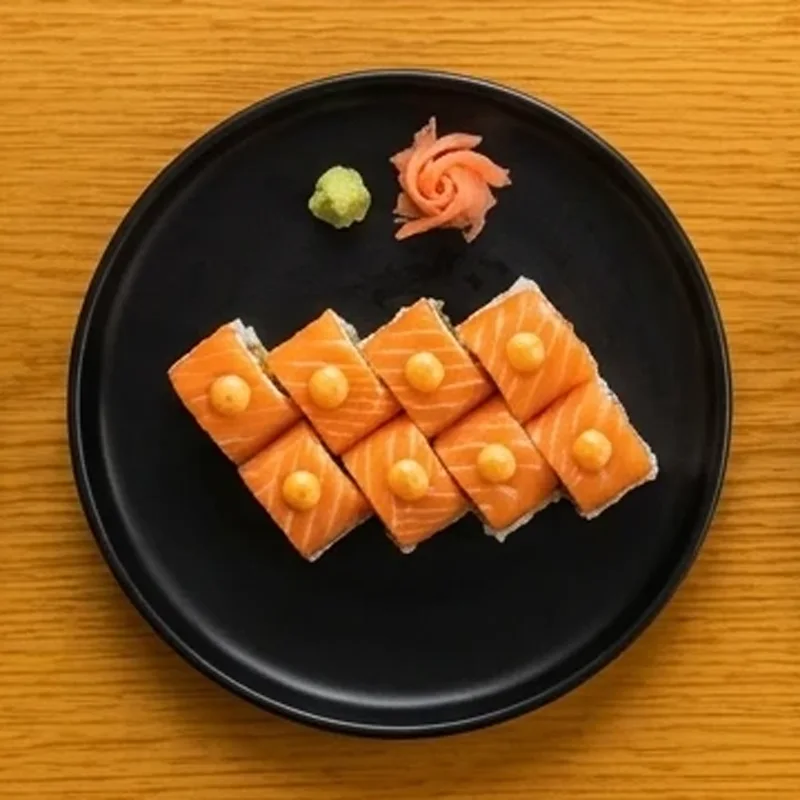
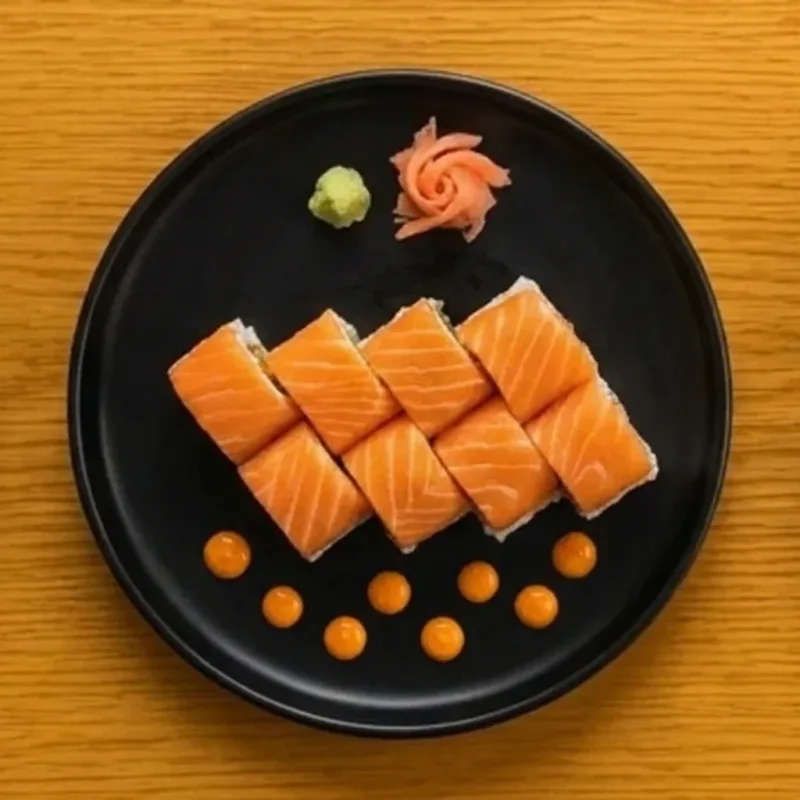
Roll 62: sauce on the plate as in the restaurant menu
Claude-Session: https://claude.ai/code/session_01FUVkhEtpQvfhdoqL6ZWBso

diff --git a/staff/index.html b/staff/index.html
@@ -280,7 +280,7 @@ const API = new URLSearchParams(location.search).get('api') || 'https://cafeupnh
 const VENUE = 'sushigo';
 const POLL_MS = 6000;
 /* dish names by menu number (filled from menu-data.js by tools/build_staff.py) */
-const IMGS = {"186": "d186.webp?v=a20aa473", "210": "d210.webp?v=a943506b", "187": "d187.webp?v=1badcb44", "52": "d52.webp?v=ac59e4e9", "53": "d53.webp?v=2c0ac19c", "54": "d54.webp?v=eab18dd9", "55": "d55.webp?v=7f5644ff", "18": "d18.webp?v=e5817ae8", "19": "d19.webp?v=9f5806cd", "20": "d20.webp?v=f94c2fe5", "21": "d21.webp?v=8108b086", "22": "d22.webp?v=3048be24", "9": "d9.webp?v=b5d30888", "10": "d10.webp?v=52efe0f9", "11": "d11.webp?v=978e4b28", "12": "d12.webp?v=e7273fc0", "13": "d13.webp?v=30b27e16", "14": "d14.webp?v=1446b738", "15": "d15.webp?v=29f66d05", "180": "d180.webp?v=0f438634", "16": "d16.webp?v=c0357a00", "17": "d17.webp?v=0f87eb02", "32": "d32.webp?v=3c840480", "33": "d33.webp?v=2506588e", "34": "d34.webp?v=9d0364af", "35": "d35.webp?v=9e72601e", "36": "d36.webp?v=89c1beae", "37": "d37.webp?v=839d1ea1", "38": "d38.webp?v=ad71e8e0", "39": "d39.webp?v=8ddd849e", "40": "d40.webp?v=5f22025c", "41": "d41.webp?v=d1d522c8", "42": "d42.webp?v=b93ca088", "202": "d202.webp?v=1ab0f3d1", "43": "d43.webp?v=91d3084c", "207": "d207.webp?v=2cb9385f", "208": "d208.webp?v=769a3015", "44": "d44.webp?v=7ca1de35", "56": "d56.webp?v=965f24e4", "57": "d57.webp?v=467516ff", "59": "d59.webp?v=8bb2137d", "58": "d58.webp?v=c860682f", "60": "d60.webp?v=a3e6f60b", "62": "d62.webp?v=d72b8b27", "61": "d61.webp?v=a87b8091", "48": "d48.webp?v=d94c4e30", "170": "d170.webp?v=f50653a2", "49": "d49.webp?v=9775f207", "50": "d50.webp?v=56887285", "51": "d51.webp?v=c34d3efe", "63": "d63.webp?v=12268ea6", "64": "d64.webp?v=aa261cac", "65": "d65.webp?v=a2fac014", "66": "d66.webp?v=3f33bfed", "174": "d174.webp?v=5b3899f9", "67": "d67.webp?v=70dea97e", "68": "d68.webp?v=8b6ca86e", "69": "d69.webp?v=83173c95", "70": "d70.webp?v=6b09ac86", "71": "d71.webp?v=16ac0aeb", "72": "d72.webp?v=34c07747", "73": "d73.webp?v=65044c85", "196": "d196.webp?v=99fe23b5", "74": "d74.webp?v=a61600a0", "75": "d75.webp?v=12643079", "76": "d76.webp?v=4976e5cc", "79": "d79.webp?v=9a27a2d0", "77": "d77.webp?v=dff36136", "78": "d78.webp?v=c57f163a", "80": "d80.webp?v=232f71fd", "191": "d191.webp?v=0678e438", "190": "d190.webp?v=fc6ac0c7", "194": "d194.webp?v=abc36968", "188": "d188.webp?v=fd8c35d5", "192": "d192.webp?v=17fcde76", "189": "d189.webp?v=ea3d5a8f", "193": "d193.webp?v=f841c437", "45": "d45.webp?v=b2ccba79", "46": "d46.webp?v=158c345a", "47": "d47.webp?v=a9963afb", "181": "d181.webp?v=94984a7e", "182": "d182.webp?v=d5208821", "183": "d183.webp?v=da481454", "185": "d185.webp?v=edba128e", "184": "d184.webp?v=3b01019c", "173": "d173.webp?v=121a45dd", "172": "d172.webp?v=e478487e", "167": "d167.webp?v=8e9612a9", "168": "d168.webp?v=be1e3f36", "169": "d169.webp?v=e6f92468", "171": "d171.webp?v=f92e85ce", "23": "d23.webp?v=242646c3", "24": "d24.webp?v=4c65c96f", "25": "d25.webp?v=3a1e9214", "26": "d26.webp?v=6cf13510", "203": "d203.webp?v=e57f266b", "28": "d28.webp?v=9c568e26", "29": "d29.webp?v=6f9289e9", "30": "d30.webp?v=94dbc95f", "31": "d31.webp?v=0d7a5f7f", "27": "d27.webp?v=f4fa92cd", "117": "d117.webp?v=dcd33753", "118": "d117.webp?v=dcd33753", "119": "d119.webp?v=69bb7d19", "120": "d119.webp?v=69bb7d19", "121": "d121.webp?v=3c6e1bff", "122": "d121.webp?v=3c6e1bff", "123": "d123.webp?v=3e8b89d3", "124": "d123.webp?v=3e8b89d3", "125": "d125.webp?v=134c7d32", "126": "d125.webp?v=134c7d32", "127": "d127.webp?v=f97703c6", "128": "d127.webp?v=f97703c6", "144": "d144.webp?v=a8fc5c34", "145": "d144.webp?v=a8fc5c34", "146": "d146.webp?v=9b321d77", "147": "d146.webp?v=9b321d77", "129": "d129.webp?v=d52e67df", "130": "d129.webp?v=d52e67df", "131": "d131.webp?v=05be9678", "132": "d131.webp?v=05be9678", "133": "d133.webp?v=270ba4c3", "134": "d133.webp?v=270ba4c3", "135": "d135.webp?v=ca5d2629", "136": "d135.webp?v=ca5d2629", "137": "d137.webp?v=43b73a38", "138": "d137.webp?v=43b73a38", "139": "d139.webp?v=299aee6e", "140": "d139.webp?v=299aee6e", "142": "d142.webp?v=ad24084b", "143": "d142.webp?v=ad24084b", "101": "d101.webp?v=836909ee", "205": "d205.webp?v=cbcec42a", "102": "d102.webp?v=7914424e", "103": "d103.webp?v=906998a9", "104": "d104.webp?v=5844b821", "100": "d100.webp?v=6a03852b", "97": "d97.webp?v=097eca62", "206": "d206.webp?v=73209d63", "209": "d209.webp?v=dd7fb685", "151": "d151.webp?v=c2121458", "148": "d148.webp?v=beeb568a", "149": "d149.webp?v=86442304", "150": "d150.webp?v=f5c5fc25", "98": "d98.webp?v=b272fef6", "99": "d99.webp?v=17877127", "141": "d141.webp?v=297be1d9", "96": "d96.webp?v=6c689f75", "199": "d199.webp?v=49ff3e63", "90": "d90.webp?v=af9bbac3", "88": "d88.webp?v=5a4ddb90", "204": "d204.webp?v=c819f21b", "91": "d91.webp?v=03a50746", "92": "d92.webp?v=03a50746", "201": "d201.webp?v=4b2e1fd9", "89": "d89.webp?v=67728fc1", "93": "d93.webp?v=7d43b3d8", "94": "d94.webp?v=11c7b441", "95": "d95.webp?v=09a4f4b4", "195": "d195.webp?v=dd230707", "81": "d81.webp?v=6cc40a24", "82": "d82.webp?v=ed0c97b3", "83": "d83.webp?v=598272e2", "84": "d84.webp?v=908daff8", "200": "d200.webp?v=0f75c608", "85": "d85.webp?v=315ca908", "86": "d86.webp?v=65f37c75", "87": "d87.webp?v=5f1e8d5c", "109": "dr_beer.webp?v=110c074f", "110": "dr_beer.webp?v=110c074f", "111": "dr_heineken.webp?v=cf836dae", "112": "dr_soft.webp?v=ed093acc", "113": "dr_soft.webp?v=ed093acc", "176": "dr_soft.webp?v=ed093acc", "177": "dr_soft.webp?v=ed093acc", "115": "dr_soft.webp?v=ed093acc", "116": "dr_soft.webp?v=ed093acc", "178": "dr_water.webp?v=e8fe1b27", "114": "dr_water.webp?v=e8fe1b27", "179": "dr_coco.webp?v=97f03e8b"};   /* original photo of each dish: ../img/<name>.webp */
+const IMGS = {"186": "d186.webp?v=a20aa473", "210": "d210.webp?v=a943506b", "187": "d187.webp?v=1badcb44", "52": "d52.webp?v=ac59e4e9", "53": "d53.webp?v=2c0ac19c", "54": "d54.webp?v=eab18dd9", "55": "d55.webp?v=7f5644ff", "18": "d18.webp?v=e5817ae8", "19": "d19.webp?v=9f5806cd", "20": "d20.webp?v=f94c2fe5", "21": "d21.webp?v=8108b086", "22": "d22.webp?v=3048be24", "9": "d9.webp?v=b5d30888", "10": "d10.webp?v=52efe0f9", "11": "d11.webp?v=978e4b28", "12": "d12.webp?v=e7273fc0", "13": "d13.webp?v=30b27e16", "14": "d14.webp?v=1446b738", "15": "d15.webp?v=29f66d05", "180": "d180.webp?v=0f438634", "16": "d16.webp?v=c0357a00", "17": "d17.webp?v=0f87eb02", "32": "d32.webp?v=3c840480", "33": "d33.webp?v=2506588e", "34": "d34.webp?v=9d0364af", "35": "d35.webp?v=9e72601e", "36": "d36.webp?v=89c1beae", "37": "d37.webp?v=839d1ea1", "38": "d38.webp?v=ad71e8e0", "39": "d39.webp?v=8ddd849e", "40": "d40.webp?v=5f22025c", "41": "d41.webp?v=d1d522c8", "42": "d42.webp?v=b93ca088", "202": "d202.webp?v=1ab0f3d1", "43": "d43.webp?v=91d3084c", "207": "d207.webp?v=2cb9385f", "208": "d208.webp?v=769a3015", "44": "d44.webp?v=7ca1de35", "56": "d56.webp?v=965f24e4", "57": "d57.webp?v=467516ff", "59": "d59.webp?v=8bb2137d", "58": "d58.webp?v=c860682f", "60": "d60.webp?v=a3e6f60b", "62": "d62.webp?v=54b6e7c2", "61": "d61.webp?v=a87b8091", "48": "d48.webp?v=d94c4e30", "170": "d170.webp?v=f50653a2", "49": "d49.webp?v=9775f207", "50": "d50.webp?v=56887285", "51": "d51.webp?v=c34d3efe", "63": "d63.webp?v=12268ea6", "64": "d64.webp?v=aa261cac", "65": "d65.webp?v=a2fac014", "66": "d66.webp?v=3f33bfed", "174": "d174.webp?v=5b3899f9", "67": "d67.webp?v=70dea97e", "68": "d68.webp?v=8b6ca86e", "69": "d69.webp?v=83173c95", "70": "d70.webp?v=6b09ac86", "71": "d71.webp?v=16ac0aeb", "72": "d72.webp?v=34c07747", "73": "d73.webp?v=65044c85", "196": "d196.webp?v=99fe23b5", "74": "d74.webp?v=a61600a0", "75": "d75.webp?v=12643079", "76": "d76.webp?v=4976e5cc", "79": "d79.webp?v=9a27a2d0", "77": "d77.webp?v=dff36136", "78": "d78.webp?v=c57f163a", "80": "d80.webp?v=232f71fd", "191": "d191.webp?v=0678e438", "190": "d190.webp?v=fc6ac0c7", "194": "d194.webp?v=abc36968", "188": "d188.webp?v=fd8c35d5", "192": "d192.webp?v=17fcde76", "189": "d189.webp?v=ea3d5a8f", "193": "d193.webp?v=f841c437", "45": "d45.webp?v=b2ccba79", "46": "d46.webp?v=158c345a", "47": "d47.webp?v=a9963afb", "181": "d181.webp?v=94984a7e", "182": "d182.webp?v=d5208821", "183": "d183.webp?v=da481454", "185": "d185.webp?v=edba128e", "184": "d184.webp?v=3b01019c", "173": "d173.webp?v=121a45dd", "172": "d172.webp?v=e478487e", "167": "d167.webp?v=8e9612a9", "168": "d168.webp?v=be1e3f36", "169": "d169.webp?v=e6f92468", "171": "d171.webp?v=f92e85ce", "23": "d23.webp?v=242646c3", "24": "d24.webp?v=4c65c96f", "25": "d25.webp?v=3a1e9214", "26": "d26.webp?v=6cf13510", "203": "d203.webp?v=e57f266b", "28": "d28.webp?v=9c568e26", "29": "d29.webp?v=6f9289e9", "30": "d30.webp?v=94dbc95f", "31": "d31.webp?v=0d7a5f7f", "27": "d27.webp?v=f4fa92cd", "117": "d117.webp?v=dcd33753", "118": "d117.webp?v=dcd33753", "119": "d119.webp?v=69bb7d19", "120": "d119.webp?v=69bb7d19", "121": "d121.webp?v=3c6e1bff", "122": "d121.webp?v=3c6e1bff", "123": "d123.webp?v=3e8b89d3", "124": "d123.webp?v=3e8b89d3", "125": "d125.webp?v=134c7d32", "126": "d125.webp?v=134c7d32", "127": "d127.webp?v=f97703c6", "128": "d127.webp?v=f97703c6", "144": "d144.webp?v=a8fc5c34", "145": "d144.webp?v=a8fc5c34", "146": "d146.webp?v=9b321d77", "147": "d146.webp?v=9b321d77", "129": "d129.webp?v=d52e67df", "130": "d129.webp?v=d52e67df", "131": "d131.webp?v=05be9678", "132": "d131.webp?v=05be9678", "133": "d133.webp?v=270ba4c3", "134": "d133.webp?v=270ba4c3", "135": "d135.webp?v=ca5d2629", "136": "d135.webp?v=ca5d2629", "137": "d137.webp?v=43b73a38", "138": "d137.webp?v=43b73a38", "139": "d139.webp?v=299aee6e", "140": "d139.webp?v=299aee6e", "142": "d142.webp?v=ad24084b", "143": "d142.webp?v=ad24084b", "101": "d101.webp?v=836909ee", "205": "d205.webp?v=cbcec42a", "102": "d102.webp?v=7914424e", "103": "d103.webp?v=906998a9", "104": "d104.webp?v=5844b821", "100": "d100.webp?v=6a03852b", "97": "d97.webp?v=097eca62", "206": "d206.webp?v=73209d63", "209": "d209.webp?v=dd7fb685", "151": "d151.webp?v=c2121458", "148": "d148.webp?v=beeb568a", "149": "d149.webp?v=86442304", "150": "d150.webp?v=f5c5fc25", "98": "d98.webp?v=b272fef6", "99": "d99.webp?v=17877127", "141": "d141.webp?v=297be1d9", "96": "d96.webp?v=6c689f75", "199": "d199.webp?v=49ff3e63", "90": "d90.webp?v=af9bbac3", "88": "d88.webp?v=5a4ddb90", "204": "d204.webp?v=c819f21b", "91": "d91.webp?v=03a50746", "92": "d92.webp?v=03a50746", "201": "d201.webp?v=4b2e1fd9", "89": "d89.webp?v=67728fc1", "93": "d93.webp?v=7d43b3d8", "94": "d94.webp?v=11c7b441", "95": "d95.webp?v=09a4f4b4", "195": "d195.webp?v=dd230707", "81": "d81.webp?v=6cc40a24", "82": "d82.webp?v=ed0c97b3", "83": "d83.webp?v=598272e2", "84": "d84.webp?v=908daff8", "200": "d200.webp?v=0f75c608", "85": "d85.webp?v=315ca908", "86": "d86.webp?v=65f37c75", "87": "d87.webp?v=5f1e8d5c", "109": "dr_beer.webp?v=110c074f", "110": "dr_beer.webp?v=110c074f", "111": "dr_heineken.webp?v=cf836dae", "112": "dr_soft.webp?v=ed093acc", "113": "dr_soft.webp?v=ed093acc", "176": "dr_soft.webp?v=ed093acc", "177": "dr_soft.webp?v=ed093acc", "115": "dr_soft.webp?v=ed093acc", "116": "dr_soft.webp?v=ed093acc", "178": "dr_water.webp?v=e8fe1b27", "114": "dr_water.webp?v=e8fe1b27", "179": "dr_coco.webp?v=97f03e8b"};   /* original photo of each dish: ../img/<name>.webp */
 const NAMES = {"9":["Tobiko, flying fish roe","Тобико, икра летучей рыбы","Trứng cá chuồn (Tobiko)",95000],"10":["Salmon “udon” sashimi","Сашими «удон» из лосося","Sashimi sake udon (cá hồi sợi)",199000],"11":["Tuna sashimi (maguro)","Сашими из тунца (магуро)","Sashimi cá ngừ",109000],"12":["Herring with roe sashimi (komochi nishin)","Сашими из сельди с икрой (комочи нишин)","Sashimi cá trích ép trứng",99000],"13":["Octopus sashimi (tako)","Сашими из осьминога (тако)","Sashimi bạch tuộc",95000],"14":["Salmon sashimi (sake)","Сашими из лосося (сакэ)","Sashimi cá hồi",119000],"15":["Salmon belly sashimi (sake hara)","Сашими из брюшка лосося (сакэ хара)","Sashimi bụng cá hồi",129000],"16":["Salmon carpaccio","Карпаччо из лосося","Cá hồi Carpaccio",119000],"17":["Tuna carpaccio","Карпаччо из тунца","Cá ngừ Carpaccio",99000],"18":["Sashimi set, 3 kinds","Сашими-сет, 3 вида","Set 3 loại Sashimi",165000],"19":["Salmon sashimi set","Сашими-сет из лосося","Set cá hồi Sashimi",449000],"20":["Sashimi set, 5 kinds, small (15 pcs)","Сашими-сет, 5 видов, малый (15 шт.)","Set 5 loại Sashimi nhỏ (15 miếng)",269000],"21":["Sashimi set, 6 kinds","Сашими-сет, 6 видов","Set Sashimi 6 loại",299000],"22":["Chef’s special sashimi set (30 pcs)","Сашими-сет от шефа (30 шт.)","Set Sashimi đặc biệt (30 miếng)",449000],"23":["Four seasons seafood salad","Салат «Четыре сезона» с морепродуктами","Salad hải sản bốn mùa",129000],"24":["Mixed seaweed salad","Салат из водорослей ассорти","Salad rong biển trộn",79000],"25":["Crab stick salad (kani)","Салат с крабовыми палочками (кани)","Salad thanh cua",68000],"26":["Tuna mayo salad","Салат с тунцом и майонезом","Salad cá ngừ mayo",75000],"27":["Tuna tataki salad","Салат с татаки из тунца","Salad cá ngừ khò tái",109000],"28":["Crispy soft-shell crab salad","Салат с хрустящим крабом в мягком панцире","Salad cua lột chiên giòn",139000],"29":["Salmon skin salad","Салат с хрустящей кожей лосося","Salad da cá hồi",79000],"30":["Salmon & avocado salad","Салат с лососем и авокадо","Salad cá hồi bơ",129000],"31":["Salmon tataki salad","Салат с татаки из лосося","Salad cá hồi khò tái",128000],"32":["Crab stick nigiri (kani)","Нигири с крабовой палочкой (кани)","Nigiri thanh cua",20000],"33":["Salmon nigiri (sake)","Нигири с лососем (сакэ)","Nigiri cá hồi",49000],"34":["Tuna nigiri (maguro)","Нигири с тунцом (магуро)","Nigiri cá ngừ",45000],"35":["Torched salmon nigiri with teriyaki (sake aburi)","Нигири с обожжённым лососем и терияки (сакэ абури)","Nigiri cá hồi khò teri",49000],"36":["Octopus nigiri (tako)","Нигири с осьминогом (тако)","Nigiri bạch tuộc",45000],"37":["Herring with roe nigiri (nishin)","Нигири с сельдью и икрой (нишин)","Nigiri cá trích ép trứng",45000],"38":["Salmon belly nigiri (sake hara)","Нигири с брюшком лосося (сакэ хара)","Nigiri bụng cá hồi",55000],"39":["Torched tuna nigiri with teriyaki (maguro aburi)","Нигири с обожжённым тунцом и терияки (магуро абури)","Nigiri cá ngừ khò teri",45000],"40":["Tuna nigiri with cheese","Нигири с тунцом и сыром","Nigiri cá ngừ phô mai",49000],"41":["Salmon nigiri with cheese","Нигири с лососем и сыром","Nigiri cá hồi phô mai",55000],"42":["Grilled eel nigiri (unagi)","Нигири с жареным угрём (унаги)","Nigiri lươn nướng",55000],"43":["Gunkan with flying fish roe (tobiko)","Гункан с икрой летучей рыбы (тобико)","Gunkan trứng cá chuồn",45000],"44":["Salmon gunkan with tobiko","Гункан из лосося с тобико","Gunkan cá hồi trứng cá chuồn",65000],"45":["Salmon tempura roll (hosomaki)","Тонкий ролл с лососем в темпуре","Cuộn cá hồi chiên tempura",65000],"46":["Seafood tempura roll","Ролл с морепродуктами в темпуре","Cuộn hải sản chiên tempura",75000],"47":["Spicy seafood tempura roll","Острый ролл с морепродуктами в темпуре","Cuộn hải sản cay chiên tempura",75000],"48":["Avocado hosomaki","Хосомаки с авокадо","Hosomaki bơ",30000],"49":["Salmon hosomaki (sake maki)","Хосомаки с лососем (сакэ маки)","Hosomaki cá hồi sống",55000],"50":["Tuna hosomaki (tekka maki)","Хосомаки с тунцом (тэкка маки)","Hosomaki cá ngừ sống",50000],"51":["Crab stick hosomaki (kani maki)","Хосомаки с крабовой палочкой (кани маки)","Hosomaki thanh cua",30000],"52":["Sushi & sashimi set A","Сет суши и сашими A","Set Sushi & Sashimi A",195000],"53":["Sushi & sashimi set B","Сет суши и сашими B","Set Sushi & Sashimi B",249000],"54":["Sushi set Matsu (16 pcs)","Суши-сет «Мацу» (16 шт.)","Set sushi nhỏ (16 miếng)",195000],"55":["Sushi set Take (20 pcs)","Суши-сет «Такэ» (20 шт.)","Set sushi lớn (20 miếng)",299000],"56":["Seafood futomaki (kaisen futo maki)","Футомаки с морепродуктами (кайсэн футо маки)","Cuộn futo hải sản sống",85000],"57":["Rainbow seafood roll","Ролл «Радуга» с морепродуктами","Cuộn hải sản cầu vồng",92000],"58":["Soft-shell crab roll with raw salmon","Ролл с крабом в мягком панцире и лососем","Cuộn cua lột phủ cá hồi sống",139000],"59":["Soft-shell crab roll with raw tuna","Ролл с крабом в мягком панцире и тунцом","Cuộn cua lột phủ cá ngừ sống",125000],"60":["Spicy tuna maki","Ролл с тунцом и острым соусом","Cuộn cá ngừ sống sốt cay",90000],"61":["Mixed seafood California roll","Ролл «Калифорния» с морепродуктами","Cuộn hải sản tổng hợp (California)",89000],"62":["Norwegian salmon roll","Ролл с норвежским лососем","Cuộn cá hồi Nauy",95000],"63":["Salmon Philadelphia roll","Ролл «Филадельфия» с лососем","Maki cá hồi Philadelphia",128000],"64":["Tuna Philadelphia roll","Ролл «Филадельфия» с тунцом","Maki cá ngừ Philadelphia",109000],"65":["Salmon California roll","Ролл «Калифорния» с лососем","Cuộn cá hồi California",95000],"66":["Tempura shrimp roll with raw salmon","Ролл с креветкой темпура и сырым лососем","Cuộn tôm chiên cá hồi sống",109000],"67":["Salmon sesame roll","Ролл с лососем и кунжутом","Maki cá hồi mè",69000],"68":["Tuna sesame roll","Ролл с тунцом и кунжутом","Maki cá ngừ mè",65000],"69":["Torched salmon roll with spicy sauce","Ролл с обожжённым лососем и острым соусом","Cuộn cá hồi khò sốt cay",95000],"70":["Torched tuna roll with teriyaki","Ролл с обожжённым тунцом и терияки","Cuộn cá ngừ khò teriyaki",90000],"71":["Shrimp cheese roll (ebi cheese maki)","Ролл с креветкой темпура и сыром","Cuộn tôm chiên phô mai",87000],"72":["Caterpillar roll (unagi & avocado)","Ролл «Гусеница» с угрём и авокадо","Cuộn lươn bơ",89000],"73":["Dragon roll (tempura shrimp & eel)","Ролл «Дракон» с креветкой темпура и угрём","Cuộn tôm chiên phủ lươn",128000],"74":["Special salmon & tempura shrimp roll","Фирменный ролл с лососем и креветкой темпура","Cuộn tôm chiên cá hồi đặc biệt",139000],"75":["Cheese & tobiko roll","Ролл с сыром и тобико","Cuộn phô mai trứng cá",79000],"76":["Crispy soft-shell crab roll","Ролл с хрустящим крабом в мягком панцире","Maki cua lột chiên giòn",99000],"77":["Tempura shrimp California roll","Ролл с креветкой темпура и тобико","Cuộn tôm chiên trứng cá chuồn",89000],"78":["Tempura shrimp roll with avocado","Ролл с креветкой темпура под авокадо","Cuộn tôm chiên phủ bơ",86000],"79":["Torched salmon teriyaki roll","Ролл с обожжённым лососем и терияки","Cuộn cá hồi sốt teriyaki",95000],"80":["Special tuna & tempura shrimp roll","Фирменный ролл с тунцом и креветкой темпура","Cuộn tôm chiên cá ngừ đặc biệt",119000],"81":["Ebi tempura, 5 shrimp","Креветки темпура, 5 шт.","Tôm chiên tempura (5 con)",95000],"82":["Mixed tempura","Темпура ассорти","Tempura tổng hợp (2 tôm & rau củ)",76000],"83":["Tori karaage","Тори караагэ","Gà chiên kiểu Nhật",85000],"84":["Tori katsu","Тори кацу","Gà chiên xù",89000],"85":["Beef katsu","Говядина кацу","Bò Oushi chiên furai",169000],"86":["Maguro katsu","Магуро кацу","Cá ngừ chiên furai",99000],"87":["Sake katsu","Сякэ кацу (лосось)","Cá hồi chiên furai",140000],"88":["Oushi beef striploin steak with tobiko sauce (180 g)","Стейк стриплойн из говядины Oushi с соусом из тобико (180 г)","Thăn ngoại bò áp chảo sốt trứng cá (180g)",190000],"89":["Unagi kabayaki (grilled eel)","Угорь кабаяки","Lươn nướng kabayaki",179000],"90":["Oushi beef striploin steak with teriyaki (180 g)","Стейк стриплойн из говядины Oushi с терияки (180 г)","Thăn ngoại bò áp chảo sốt teriyaki (180g)",180000],"91":["Pan-fried salmon teriyaki, M (100 g)","Лосось терияки, M (100 г)","Cá hồi áp chảo sốt teriyaki (M, 100g)",155000],"92":["Pan-fried salmon teriyaki, L (180 g)","Лосось терияки, L (180 г)","Cá hồi áp chảo sốt teriyaki (L, 180g)",185000],"93":["Tuna steak with miso sauce","Стейк из тунца с соусом мисо","Cá ngừ áp chảo sốt miso",175000],"94":["Pan-fried salmon with tobiko sauce","Лосось с соусом из тобико","Cá hồi sốt trứng cá",195000],"95":["Pan-fried salmon with passion fruit sauce","Лосось с соусом из маракуйи","Cá hồi sốt chanh dây",195000],"96":["Chicken teriyaki (tori teriyaki)","Курица терияки (тори терияки)","Đùi gà sốt teriyaki",84000],"97":["Niku udon (beef)","Нику удон с говядиной","Mì udon bò",95000],"98":["Unagi don, small","Унаги дон, малый","Cơm lươn (nhỏ)",124000],"99":["Unagi don, large","Унаги дон, большой","Cơm lươn (lớn)",179000],"100":["Tempura udon","Удон с темпурой","Mì udon tempura",95000],"101":["Tonkotsu ramen","Рамен тонкоцу","Mì ramen nước cốt thịt heo",109000],"102":["Shoyu ramen","Рамен сёю","Mì ramen nước tương",99000],"103":["Kamo ramen (duck breast)","Рамен камо с утиной грудкой","Mì ramen ức vịt",119000],"104":["Ramen with Oushi beef striploin","Рамен со стейком стриплойн Oushi","Mì ramen thăn ngoại bò Oushi áp chảo",139000],"109":["Tiger beer, can","Пиво Tiger, банка","Bia Tiger (lon)",20000],"110":["Saigon beer, can","Пиво Saigon, банка","Bia Saigon (lon)",20000],"111":["Heineken, can","Пиво Heineken, банка","Bia Heineken (lon)",24000],"112":["Coca-Cola, can","Coca-Cola, банка","Coca-Cola (lon)",15000],"113":["Pepsi, can","Pepsi, банка","Pepsi (lon)",15000],"114":["Still water, bottle","Вода без газа, бутылка","Nước suối (chai)",10000],"115":["Sprite, can","Sprite, банка","Sprite (lon)",15000],"116":["Revive salted lemon","Revive с солёным лимоном","Revive chanh muối",15000],"117":["Poke with tuna & crab stick, size M","Поке с тунцом и крабовой палочкой, размер M","Poke cá ngừ thanh cua (M)",68000],"118":["Poke with tuna & crab stick, size L","Поке с тунцом и крабовой палочкой, размер L","Poke cá ngừ thanh cua (L)",95000],"119":["Poke with pan-fried chicken breast, size M","Поке с куриной грудкой, размер M","Poke ức gà áp chảo (M)",68000],"120":["Poke with pan-fried chicken breast, size L","Поке с куриной грудкой, размер L","Poke ức gà áp chảo (L)",95000],"121":["Poke with cooked seafood, size M","Поке с морепродуктами, размер M","Poke hải sản chín (M)",96000],"122":["Poke with cooked seafood, size L","Поке с морепродуктами, размер L","Poke hải sản chín (L)",128000],"123":["Poke with chicken teriyaki, size M","Поке с курицей терияки, размер M","Poke đùi gà sốt teriyaki (M)",74000],"124":["Poke with chicken teriyaki, size L","Поке с курицей терияки, размер L","Poke đùi gà sốt teriyaki (L)",99000],"125":["Poke with assorted seafood, size M","Поке с ассорти морепродуктов, размер M","Poke hải sản tổng hợp (M)",119000],"126":["Poke with assorted seafood, size L","Поке с ассорти морепродуктов, размер L","Poke hải sản tổng hợp (L)",148000],"127":["Poke with grilled eel (unagi), size M","Поке с угрём, размер M","Poke lươn Nhật (M)",135000],"128":["Poke with grilled eel (unagi), size L","Поке с угрём, размер L","Poke lươn Nhật (L)",175000],"129":["Vegetarian poke, size M","Вегетарианский поке, размер M","Poke rong biển chay (M)",50000],"130":["Vegetarian poke, size L","Вегетарианский поке, размер L","Poke rong biển chay (L)",70000],"131":["Salmon yuke poke, size M","Поке с лососем юкэ, размер M","Poke cá hồi ngâm tương (M)",135000],"132":["Salmon yuke poke, size L","Поке с лососем юкэ, размер L","Poke cá hồi ngâm tương (L)",168000],"133":["Tuna yuke poke, size M","Поке с тунцом юкэ, размер M","Poke cá ngừ ngâm tương (M)",110000],"134":["Tuna yuke poke, size L","Поке с тунцом юкэ, размер L","Poke cá ngừ ngâm tương (L)",150000],"135":["Salmon teriyaki poke, size M","Поке с лососем терияки, размер M","Poke cá hồi sốt teriyaki (M)",135000],"136":["Salmon teriyaki poke, size L","Поке с лососем терияки, размер L","Poke cá hồi sốt teriyaki (L)",168000],"137":["Pan-fried tuna teriyaki poke, size M","Поке с тунцом терияки, размер M","Poke cá ngừ sốt teriyaki (M)",110000],"138":["Pan-fried tuna teriyaki poke, size L","Поке с тунцом терияки, размер L","Poke cá ngừ sốt teriyaki (L)",145000],"139":["Tuna katsu poke, size M","Поке с тунцом в панко, размер M","Poke cá ngừ chiên xù (M)",90000],"140":["Tuna katsu poke, size L","Поке с тунцом в панко, размер L","Poke cá ngừ chiên xù (L)",135000],"141":["Gyudon (Japanese beef rice bowl)","Гюдон (рис с говядиной по-японски)","Cơm bò gyudon",95000],"142":["Beef steak poke, size M, 100 g","Поке с говяжьим стейком, размер M, 100 г","Poke bò áp chảo (M, 100g)",140000],"143":["Beef steak poke, size L, 200 g","Поке с говяжьим стейком, размер L, 200 г","Poke bò áp chảo (L, 200g)",195000],"144":["Poke with crab stick & seaweed, size M","Поке с крабовой палочкой и водорослями, размер M","Poke thanh cua rong biển (M)",50000],"145":["Poke with crab stick & seaweed, size L","Поке с крабовой палочкой и водорослями, размер L","Poke thanh cua rong biển (L)",70000],"146":["Poke with crispy chicken schnitzel, size M","Поке с курицей в панко, размер M","Poke gà chiên xù (M)",68000],"147":["Poke with crispy chicken schnitzel, size L","Поке с курицей в панко, размер L","Poke gà chiên xù (L)",95000],"148":["Curry with fried shrimp","Карри с жареными креветками","Cà ri tôm chiên",75000],"149":["Salmon curry","Карри с лососем","Cà ri cá hồi",125000],"150":["Chicken katsu curry","Карри с куриной котлетой в панко","Cà ri gà chiên xù",90000],"151":["Beef curry","Карри с говядиной","Cà ri bò",99000],"167":["Daiseque roll","Ролл «Дайсэкэ»","Cuộn Daiseque",75000],"168":["Seaweed sesame roll","Ролл с салатом чука и кунжутом","Cuộn rong biển mè",80000],"169":["Green dragon roll","Ролл «Зелёный дракон»","Cuộn green dragon",80000],"170":["Cucumber hosomaki (kappa maki)","Хосомаки с огурцом (каппа маки)","Hosomaki dưa leo",30000],"171":["Crunchy vegetable tempura roll","Хрустящий овощной ролл в темпуре","Cuộn rau củ tempura",55000],"172":["Corn & cheese gunkan","Гункан с кукурузой и сыром","Gunkan bắp cheese",45000],"173":["Seaweed gunkan (chuka wakame)","Гункан с салатом чука","Gunkan rong biển chukawakame",35000],"174":["Tempura shrimp roll with raw tuna","Ролл с креветкой темпура и сырым тунцом","Cuộn tôm chiên cá ngừ sống",105000],"176":["Pepsi Zero, can","Pepsi Zero, банка","Pepsi Zero (lon)",18000],"177":["Pepsi No Sugar Lemon, can","Pepsi без сахара со вкусом лимона, банка","Pepsi không đường vị chanh (lon)",17000],"178":["Soda water, can","Содовая, банка","Soda (lon)",20000],"179":["Coconut water, can","Кокосовая вода, банка","Nước dừa (lon)",25000],"180":["White fish sashimi","Сашими из белой рыбы","Sashimi cá trắng",119000],"181":["Hot roll with tuna & cheese","Горячий ролл с тунцом и сыром","Cuộn cá ngừ & phô mai chiên",79000],"182":["Hot roll with salmon & cheese","Горячий ролл с лососем и сыром","Cuộn cá hồi & phô mai chiên",99000],"183":["Hot roll with shrimp & cheese","Горячий ролл с креветкой и сыром","Cuộn tôm & phô mai chiên",68000],"184":["Special futomaki seafood hot roll","Фирменный горячий футомаки с морепродуктами","Cuộn hải sản đặc biệt chiên",149000],"185":["Hot roll with seafood & cheese","Горячий ролл с морепродуктами и сыром","Cuộn hải sản & phô mai chiên",99000],"186":["Sushi set C, 8 pcs","Суши-сет C, 8 шт.","Set Sushi C (8 miếng)",169000],"187":["LOVE YOU set (for sharing)","Сет LOVE YOU (на компанию)","Set LOVE YOU",399000],"188":["Tuna cream cheese roll","Ролл с тунцом и сливочным сыром","Cuộn cá ngừ phô mai kem",78000],"189":["Salmon cream cheese roll","Ролл с лососем и сливочным сыром","Cuộn cá hồi phô mai kem",89000],"190":["Torched tuna Philadelphia roll","Запечённая «Филадельфия» с тунцом","Cuộn cá ngừ phô mai kem nướng",119000],"191":["Torched salmon Philadelphia roll","Запечённая «Филадельфия» с лососем","Cuộn cá hồi phô mai kem nướng",139000],"192":["Unagi Philadelphia roll","«Филадельфия» с угрём","Cuộn lươn phô mai kem",139000],"193":["Double salmon roll","Ролл «Двойной лосось»","Cuộn cá hồi nhân đôi",169000],"194":["Double tuna roll","Ролл «Двойной тунец»","Cuộn cá ngừ nhân đôi",149000],"195":["Pan-fried white fish of the day","Белая рыба дня на сковороде","Cá trắng áp chảo theo ngày",165000],"196":["Soft-shell crab California roll","Ролл «Калифорния» с крабом в мягком панцире","Cuộn California cua lột",119000],"199":["Smoked goose breast steak","Копчёная гусиная грудка","Lườn ngỗng Nga áp chảo",149000],"200":["Soft-shell crab tempura","Краб с мягким панцирем в темпуре","Cua lột chiên tempura",149000],"201":["Ebi furai, breaded fried shrimp (5 pcs)","Эби фурай, креветки в панко (5 шт.)","Tôm chiên xù (5 con)",79000],"202":["White fish nigiri","Нигири с белой рыбой","Nigiri cá trắng",55000],"203":["Smoked duck breast salad","Салат с копчёной утиной грудкой","Salad ức vịt xông khói",99000],"204":["Grilled salmon head with teriyaki (sake atama yaki)","Запечённая голова лосося с терияки (сакэ атама яки)","Đầu cá hồi kho sốt (sake atama yaki)",89000],"205":["Miso ramen","Рамен мисо","Mì ramen vị miso",109000],"206":["Curry with crispy shrimp cakes","Карри с креветочными котлетами","Cà ri bánh tôm chiên xù",75000],"207":["Spicy salmon gunkan","Гункан с острым лососем","Gunkan cá hồi cay",45000],"208":["Torched salmon gunkan","Гункан с обожжённым лососем","Gunkan cá hồi nướng",69000],"209":["Curry with chicken teriyaki","Карри с курицей терияки","Cà ri ức gà áp chảo",90000],"210":["Salmon sushi combo","Сет «Лосось комбо»","Set sushi cá hồi combo",199000]}/*NAMES*/;
 
 const L = {

diff --git a/index.html b/index.html
@@ -706,7 +706,7 @@ const ICON={
  fish:'<svg viewBox="0 0 32 32" fill="none" stroke="currentColor" stroke-width="2.2" stroke-linecap="round" stroke-linejoin="round"><path d="M6 16c4-6 10-8 16-6 3 1 5 3 7 6-2 3-4 5-7 6-6 2-12 0-16-6z"/><path d="M6 16l-3-5M6 16l-3 5"/><circle cx="23" cy="14.5" r="1.3" fill="currentColor"/></svg>',
  crab:'<svg viewBox="0 0 32 32" fill="none" stroke="currentColor" stroke-width="2.2" stroke-linecap="round"><ellipse cx="16" cy="19" rx="8" ry="6"/><path d="M8 17l-4-3M8 21l-4 2M24 17l4-3M24 21l4 2M11 13l-3-6M21 13l3-6"/></svg>'
 };
-const IMGV={"d10": "52efe0f9", "d100": "6a03852b", "d101": "836909ee", "d102": "7914424e", "d103": "906998a9", "d104": "5844b821", "d11": "978e4b28", "d117": "dcd33753", "d119": "69bb7d19", "d12": "e7273fc0", "d121": "3c6e1bff", "d123": "3e8b89d3", "d125": "134c7d32", "d127": "f97703c6", "d129": "d52e67df", "d13": "30b27e16", "d131": "05be9678", "d133": "270ba4c3", "d135": "ca5d2629", "d137": "43b73a38", "d139": "299aee6e", "d14": "1446b738", "d141": "297be1d9", "d142": "ad24084b", "d144": "a8fc5c34", "d146": "9b321d77", "d148": "beeb568a", "d149": "86442304", "d15": "29f66d05", "d150": "f5c5fc25", "d151": "c2121458", "d16": "c0357a00", "d167": "8e9612a9", "d168": "be1e3f36", "d169": "e6f92468", "d17": "0f87eb02", "d170": "f50653a2", "d171": "f92e85ce", "d172": "e478487e", "d173": "121a45dd", "d174": "5b3899f9", "d18": "e5817ae8", "d180": "0f438634", "d181": "94984a7e", "d182": "d5208821", "d183": "da481454", "d184": "3b01019c", "d185": "edba128e", "d186": "a20aa473", "d187": "1badcb44", "d188": "fd8c35d5", "d189": "ea3d5a8f", "d19": "9f5806cd", "d190": "fc6ac0c7", "d191": "0678e438", "d192": "17fcde76", "d193": "f841c437", "d194": "abc36968", "d195": "dd230707", "d196": "99fe23b5", "d199": "49ff3e63", "d20": "f94c2fe5", "d200": "0f75c608", "d201": "4b2e1fd9", "d202": "1ab0f3d1", "d203": "e57f266b", "d204": "c819f21b", "d205": "cbcec42a", "d206": "73209d63", "d207": "2cb9385f", "d208": "769a3015", "d209": "dd7fb685", "d21": "8108b086", "d210": "a943506b", "d22": "3048be24", "d23": "242646c3", "d24": "4c65c96f", "d25": "3a1e9214", "d26": "6cf13510", "d27": "f4fa92cd", "d28": "9c568e26", "d29": "6f9289e9", "d30": "94dbc95f", "d31": "0d7a5f7f", "d32": "3c840480", "d33": "2506588e", "d34": "9d0364af", "d35": "9e72601e", "d36": "89c1beae", "d37": "839d1ea1", "d38": "ad71e8e0", "d39": "8ddd849e", "d40": "5f22025c", "d41": "d1d522c8", "d42": "b93ca088", "d43": "91d3084c", "d44": "7ca1de35", "d45": "b2ccba79", "d46": "158c345a", "d47": "a9963afb", "d48": "d94c4e30", "d49": "9775f207", "d50": "56887285", "d51": "c34d3efe", "d52": "ac59e4e9", "d53": "2c0ac19c", "d54": "eab18dd9", "d55": "7f5644ff", "d56": "965f24e4", "d57": "467516ff", "d58": "c860682f", "d59": "8bb2137d", "d60": "a3e6f60b", "d61": "a87b8091", "d62": "d72b8b27", "d63": "12268ea6", "d64": "aa261cac", "d65": "a2fac014", "d66": "3f33bfed", "d67": "70dea97e", "d68": "8b6ca86e", "d69": "83173c95", "d70": "6b09ac86", "d71": "16ac0aeb", "d72": "34c07747", "d73": "65044c85", "d74": "a61600a0", "d75": "12643079", "d76": "4976e5cc", "d77": "dff36136", "d78": "c57f163a", "d79": "9a27a2d0", "d80": "232f71fd", "d81": "6cc40a24", "d82": "ed0c97b3", "d83": "598272e2", "d84": "908daff8", "d85": "315ca908", "d86": "65f37c75", "d87": "5f1e8d5c", "d88": "5a4ddb90", "d89": "67728fc1", "d9": "b5d30888", "d90": "af9bbac3", "d91": "03a50746", "d92": "03a50746", "d93": "7d43b3d8", "d94": "11c7b441", "d95": "09a4f4b4", "d96": "6c689f75", "d97": "097eca62", "d98": "b272fef6", "d99": "17877127", "dr_beer": "110c074f", "dr_coco": "97f03e8b", "dr_heineken": "cf836dae", "dr_soft": "ed093acc", "dr_water": "e8fe1b27"};
+const IMGV={"d10": "52efe0f9", "d100": "6a03852b", "d101": "836909ee", "d102": "7914424e", "d103": "906998a9", "d104": "5844b821", "d11": "978e4b28", "d117": "dcd33753", "d119": "69bb7d19", "d12": "e7273fc0", "d121": "3c6e1bff", "d123": "3e8b89d3", "d125": "134c7d32", "d127": "f97703c6", "d129": "d52e67df", "d13": "30b27e16", "d131": "05be9678", "d133": "270ba4c3", "d135": "ca5d2629", "d137": "43b73a38", "d139": "299aee6e", "d14": "1446b738", "d141": "297be1d9", "d142": "ad24084b", "d144": "a8fc5c34", "d146": "9b321d77", "d148": "beeb568a", "d149": "86442304", "d15": "29f66d05", "d150": "f5c5fc25", "d151": "c2121458", "d16": "c0357a00", "d167": "8e9612a9", "d168": "be1e3f36", "d169": "e6f92468", "d17": "0f87eb02", "d170": "f50653a2", "d171": "f92e85ce", "d172": "e478487e", "d173": "121a45dd", "d174": "5b3899f9", "d18": "e5817ae8", "d180": "0f438634", "d181": "94984a7e", "d182": "d5208821", "d183": "da481454", "d184": "3b01019c", "d185": "edba128e", "d186": "a20aa473", "d187": "1badcb44", "d188": "fd8c35d5", "d189": "ea3d5a8f", "d19": "9f5806cd", "d190": "fc6ac0c7", "d191": "0678e438", "d192": "17fcde76", "d193": "f841c437", "d194": "abc36968", "d195": "dd230707", "d196": "99fe23b5", "d199": "49ff3e63", "d20": "f94c2fe5", "d200": "0f75c608", "d201": "4b2e1fd9", "d202": "1ab0f3d1", "d203": "e57f266b", "d204": "c819f21b", "d205": "cbcec42a", "d206": "73209d63", "d207": "2cb9385f", "d208": "769a3015", "d209": "dd7fb685", "d21": "8108b086", "d210": "a943506b", "d22": "3048be24", "d23": "242646c3", "d24": "4c65c96f", "d25": "3a1e9214", "d26": "6cf13510", "d27": "f4fa92cd", "d28": "9c568e26", "d29": "6f9289e9", "d30": "94dbc95f", "d31": "0d7a5f7f", "d32": "3c840480", "d33": "2506588e", "d34": "9d0364af", "d35": "9e72601e", "d36": "89c1beae", "d37": "839d1ea1", "d38": "ad71e8e0", "d39": "8ddd849e", "d40": "5f22025c", "d41": "d1d522c8", "d42": "b93ca088", "d43": "91d3084c", "d44": "7ca1de35", "d45": "b2ccba79", "d46": "158c345a", "d47": "a9963afb", "d48": "d94c4e30", "d49": "9775f207", "d50": "56887285", "d51": "c34d3efe", "d52": "ac59e4e9", "d53": "2c0ac19c", "d54": "eab18dd9", "d55": "7f5644ff", "d56": "965f24e4", "d57": "467516ff", "d58": "c860682f", "d59": "8bb2137d", "d60": "a3e6f60b", "d61": "a87b8091", "d62": "54b6e7c2", "d63": "12268ea6", "d64": "aa261cac", "d65": "a2fac014", "d66": "3f33bfed", "d67": "70dea97e", "d68": "8b6ca86e", "d69": "83173c95", "d70": "6b09ac86", "d71": "16ac0aeb", "d72": "34c07747", "d73": "65044c85", "d74": "a61600a0", "d75": "12643079", "d76": "4976e5cc", "d77": "dff36136", "d78": "c57f163a", "d79": "9a27a2d0", "d80": "232f71fd", "d81": "6cc40a24", "d82": "ed0c97b3", "d83": "598272e2", "d84": "908daff8", "d85": "315ca908", "d86": "65f37c75", "d87": "5f1e8d5c", "d88": "5a4ddb90", "d89": "67728fc1", "d9": "b5d30888", "d90": "af9bbac3", "d91": "03a50746", "d92": "03a50746", "d93": "7d43b3d8", "d94": "11c7b441", "d95": "09a4f4b4", "d96": "6c689f75", "d97": "097eca62", "d98": "b272fef6", "d99": "17877127", "dr_beer": "110c074f", "dr_coco": "97f03e8b", "dr_heineken": "cf836dae", "dr_soft": "ed093acc", "dr_water": "e8fe1b27"};
 const MENU=[
   /* ---------- Sushi sets ---------- */
   {id:'186', cat:'set', vi:'Set Sushi C (8 miếng)', price:169000, img:'d186',
